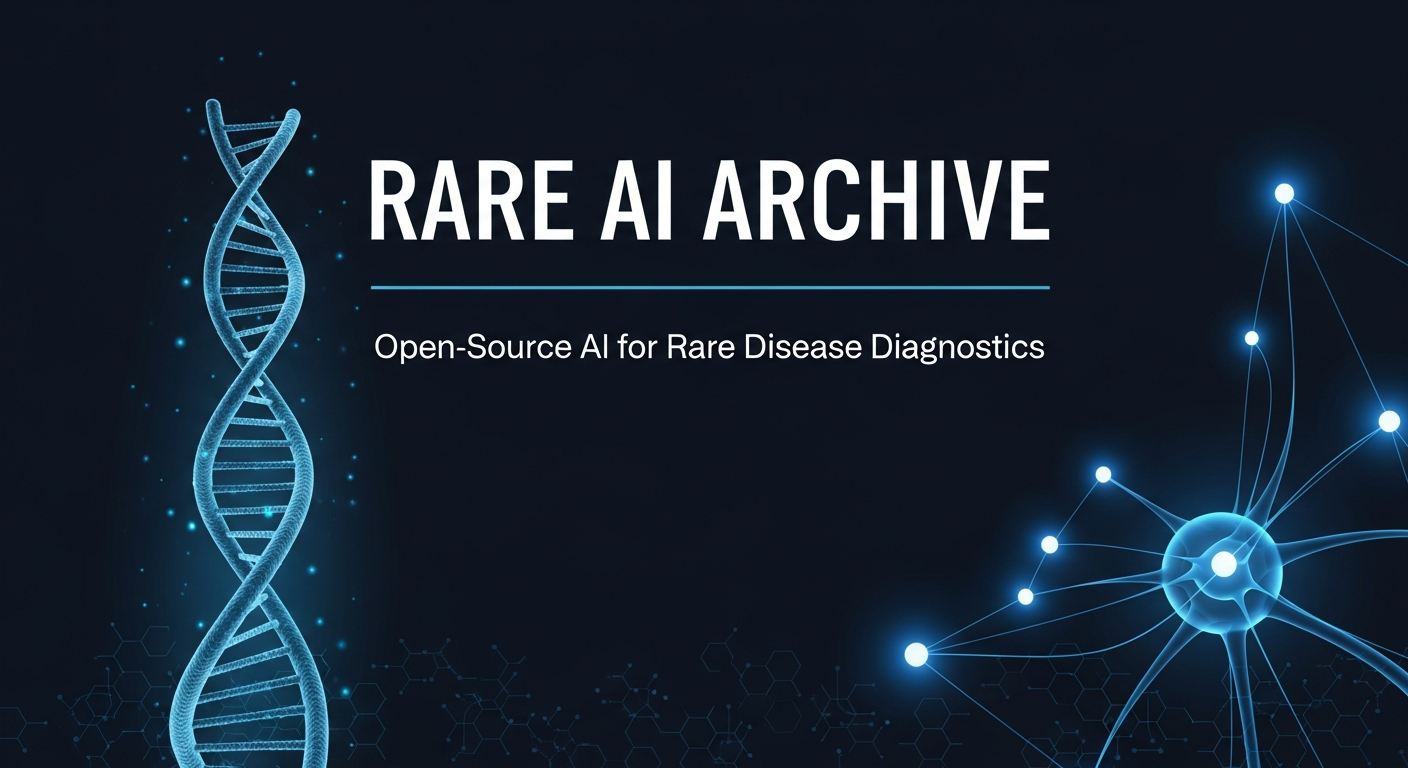
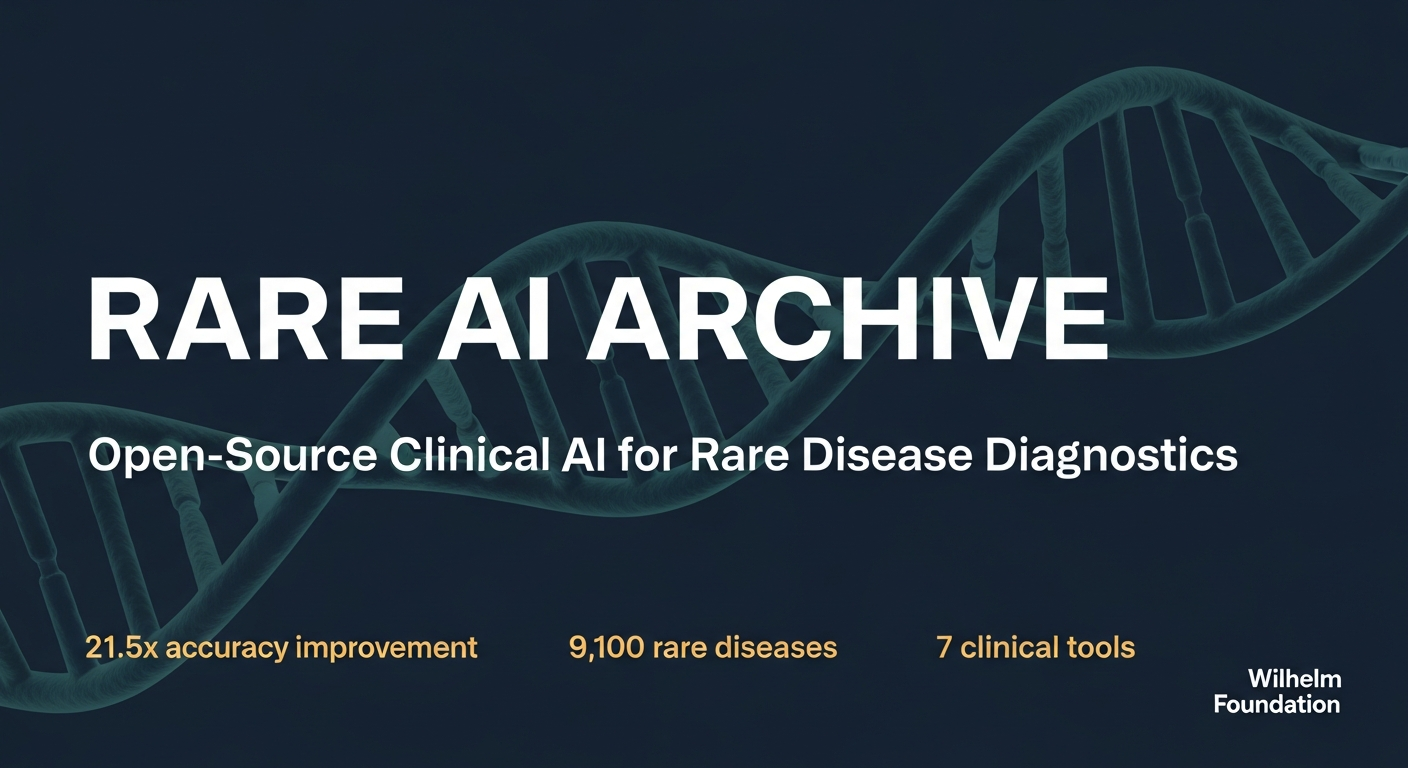
fix(ci): lazy chromadb import + brand assets from showcase Phase 0
- Make chromadb import conditional in rlhf integration (fixes CI
  ModuleNotFoundError that has been red for 5 consecutive runs)
- Add chromadb optional extra to rlhf pyproject.toml
- Add pytest-timeout to test-live-adapters CI step
- Add M01 brand assets: hero banner, HF org banner, social preview
- Add M02 architecture diagrams: system overview, training pipeline,
  deployment topology, patient journey (PNG + mermaid sources)

Changed region(s): [[0.0, 0.0625, 1.0, 1.0], [0.4062, 0.8125, 0.5938, 0.875]]

diff --git a/packages/rlhf/src/archive_api/integrations/chromadb.py b/packages/rlhf/src/archive_api/integrations/chromadb.py
@@ -10,8 +10,14 @@ Target: chromadb/chroma:0.5.23 server.
 import json
 import logging
 from typing import Any
+from urllib.parse import urlparse
 
-import chromadb
+try:
+    import chromadb
+    HAS_CHROMADB = True
+except ImportError:
+    chromadb = None  # type: ignore[assignment]
+    HAS_CHROMADB = False
 
 from ..config import settings
 
@@ -22,13 +28,16 @@ COLLECTION_NAME = "clinical_corrections"
 _client = None
 
 
-def _get_client() -> chromadb.HttpClient:
+def _get_client():
     """Get or create the ChromaDB HTTP client (singleton)."""
+    if not HAS_CHROMADB:
+        raise RuntimeError(
+            "chromadb is not installed. "
+            "Install with: pip install rare-archive-rlhf[chromadb]"
+        )
     global _client
     if _client is None:
         url = settings.chromadb_url.rstrip("/")
-        # Parse host and port from URL
-        from urllib.parse import urlparse
         parsed = urlparse(url)
         host = parsed.hostname or "rare-archive-chromadb"
         port = parsed.port or 8000
